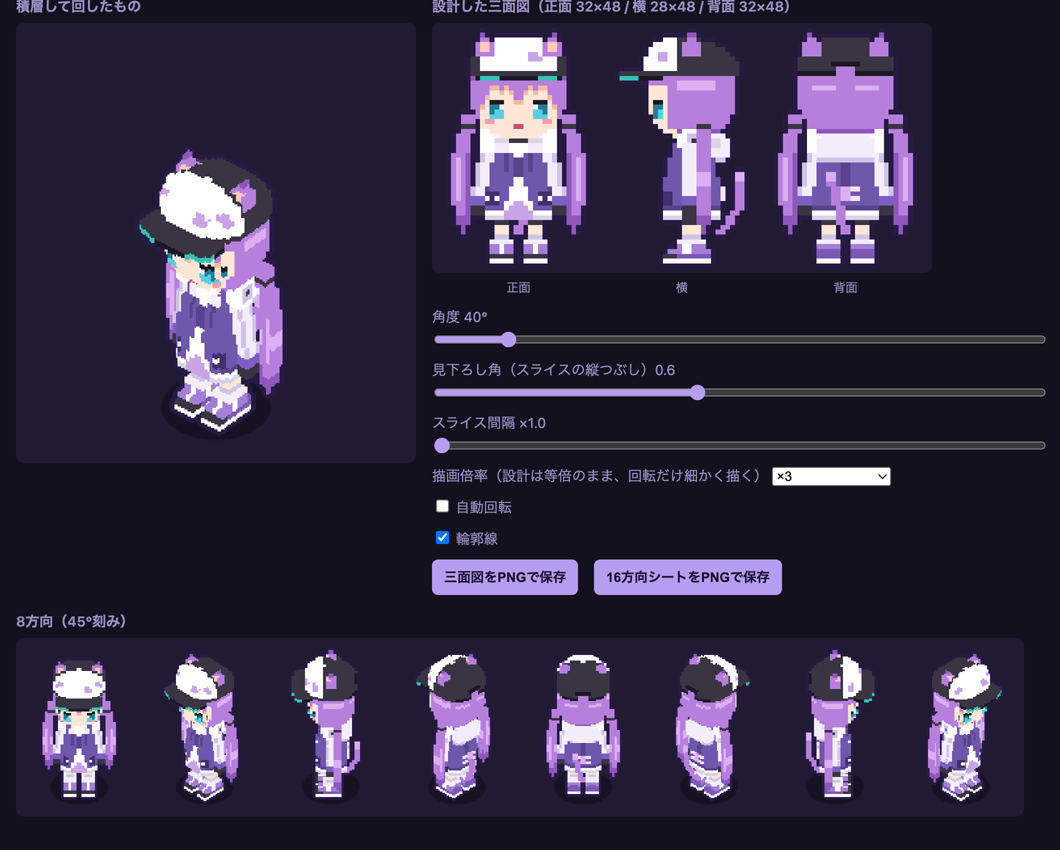
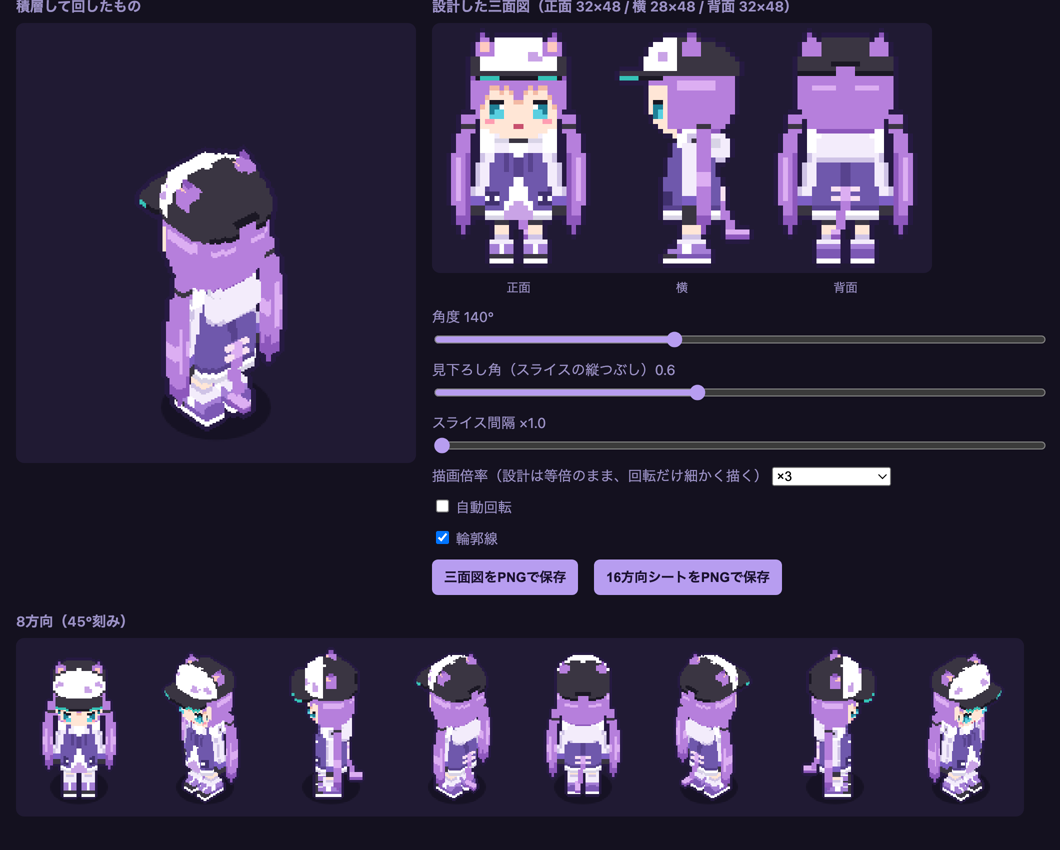
しっぽをリボンの下から出し、下へ垂れて後ろへ流す形に変更
Claude-Session: https://claude.ai/code/session_011HoqDHgmM7SEYGM4k87Uy9

diff --git a/design.js b/design.js
@@ -43,9 +43,11 @@ function mirror(p) { parts.push({name:p.name.replace('左','右'), n:p.n, depth:
   for (const g of [p.front, p.back]) { box(g, 3, 3, 13, 21, P.H1); box(g, 5, 5, 10, 22, P.H3); }
   box(p.side, 0, 27, 16, 18, P.H1);
   mirror(p); }
-// ---- 猫しっぽ（裾の下から出て後ろへ）+ 背中のリボン ----
+// ---- 背中のリボン + 猫しっぽ（リボンのすぐ下から出て、下へ垂れて後ろへ流れる）----
 { const p = part('しっぽ');
-  prof(p, 6, 18, z => ({cx: 15.5 + Math.round((z - 6) / 12 * 3), hw: 1, cy: CY + 6 + Math.round(Math.min(1, (z - 6) / 5) * 4), hd: 1, c: z >= 17 ? P.H1 : P.H2}));
+  prof(p, 5, 12, z => { const t = (12 - z) / 7;
+    return z <= 6 ? {cx: 17.5, hw: 1, cy: CY + 9.5, hd: 2, c: z === 5 ? P.H3 : P.H1}
+                  : {cx: 15.5 + Math.round(t * 2), hw: 1, cy: CY + 6 + Math.round(t * 3), hd: 1, c: P.H2}; });
   const r = part('リボン', 4);
   prof(r, 13, 15, z => ({hw: z === 14 ? 1 : 3, cy: CY + 6, hd: 1, c: P.RB}));
   box(r.back, 15, 16, 13, 15, P.H1); }
